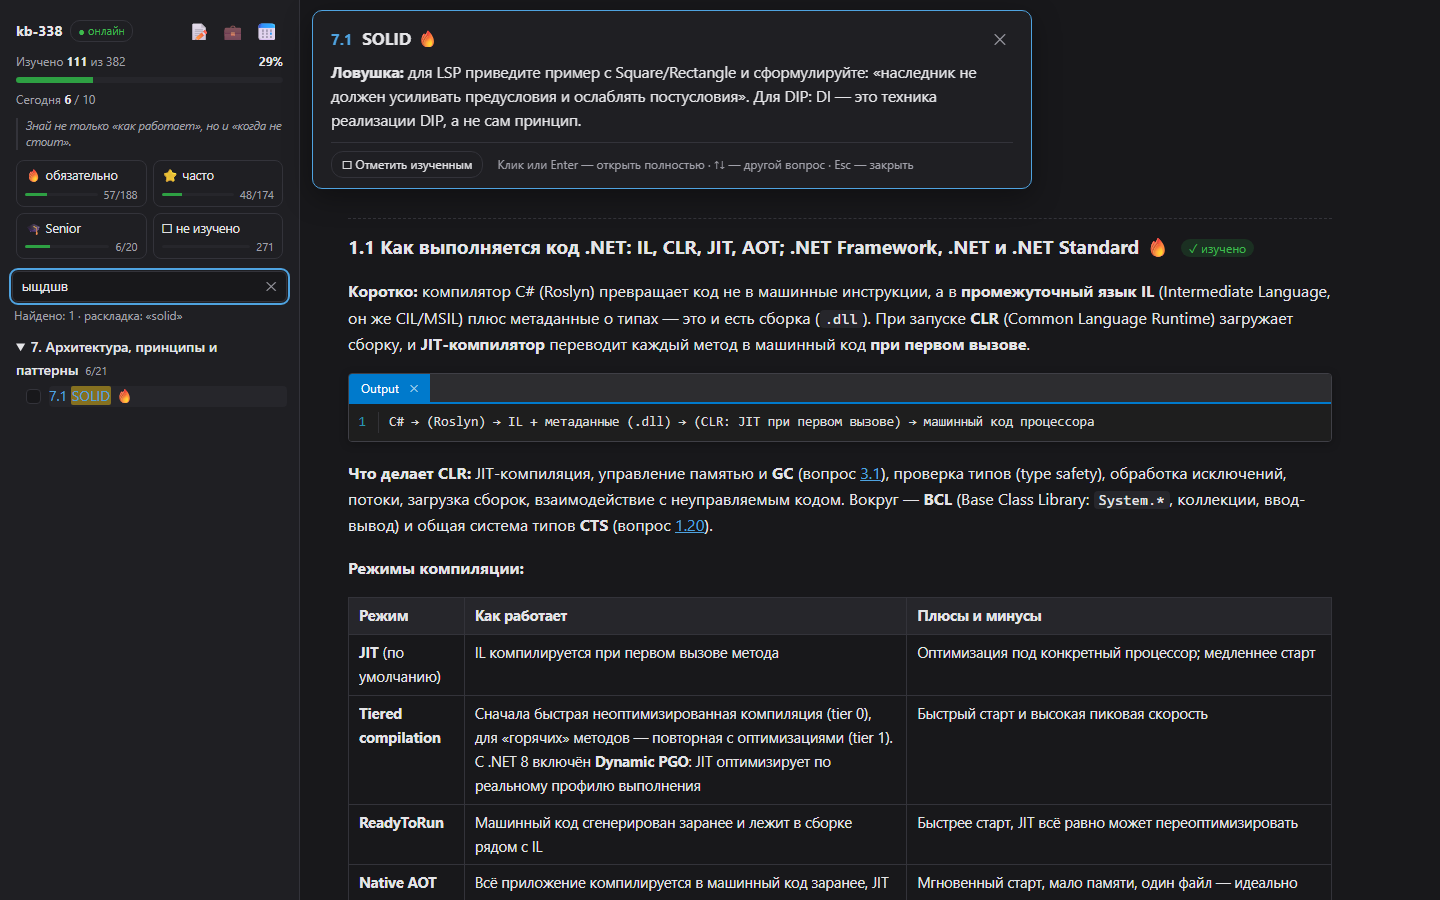
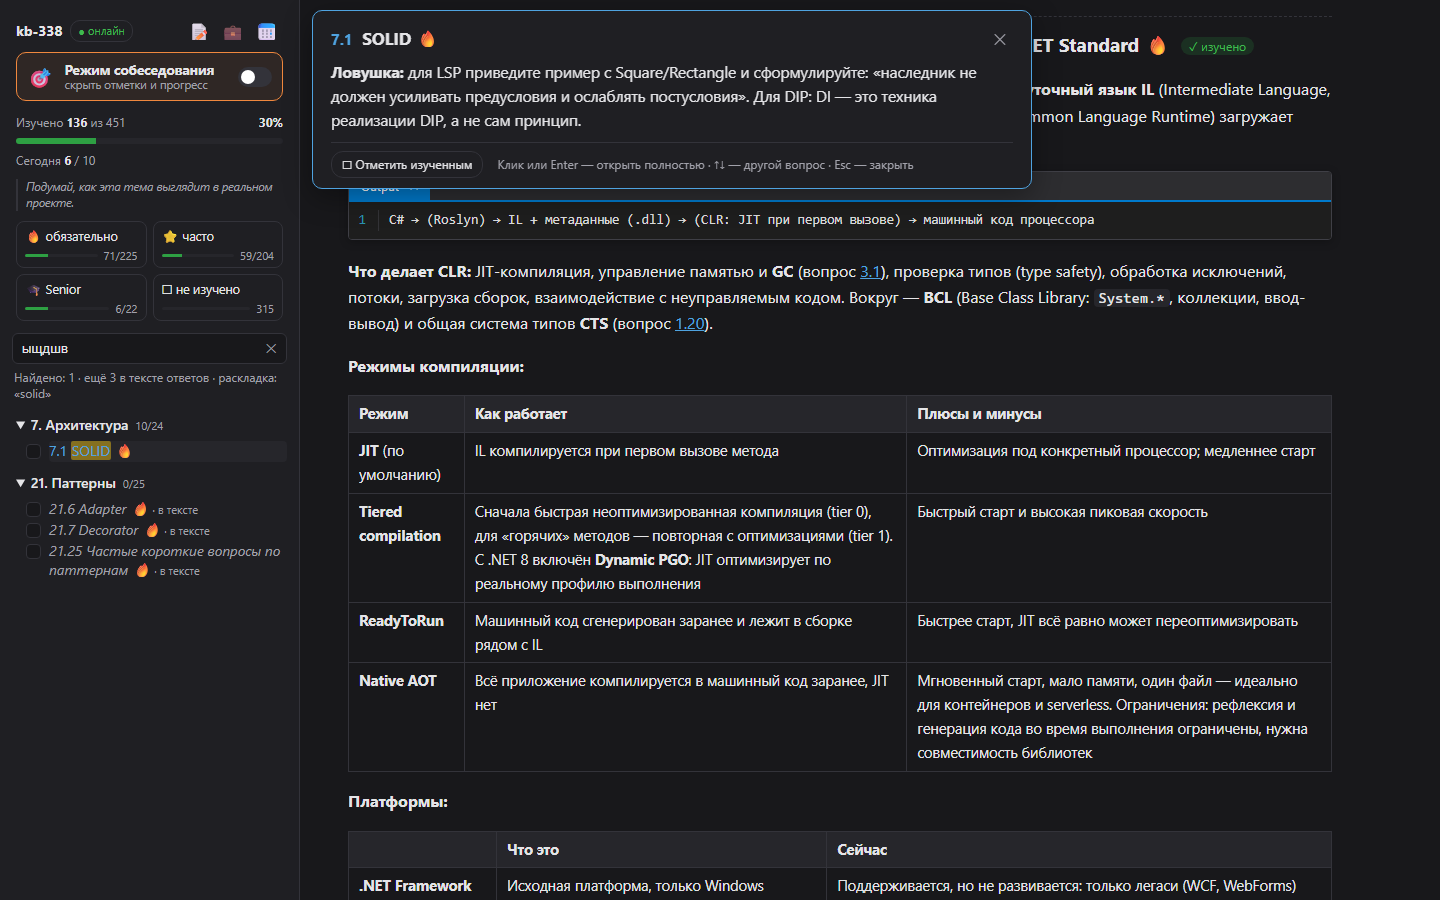
README: новые скриншоты на демо-данных (короткое оглавление, 451 вопрос) и снимок раздела компании с картой подготовки и панелью прохода

diff --git a/README.md b/README.md
@@ -18,6 +18,11 @@
 |---|---|---|
 | [![Поиск](docs/screenshots/search.png)](docs/screenshots/search.png) | [![Календарь](docs/screenshots/calendar.png)](docs/screenshots/calendar.png) | [![Отклики](docs/screenshots/tracker.png)](docs/screenshots/tracker.png) |
 
+Раздел под вакансию: вероятные вопросы, «Карта подготовки» со ссылками на темы базы и проход по ним по одной
+(панель внизу) — см. [`/interview-prep`](#interview-prep--подготовка-к-вакансии).
+
+![Раздел компании: карта подготовки и панель прохода по темам](docs/screenshots/company.png)
+
 <sub>На скриншотах — демо-данные: компании выдуманные.</sub>
 
 ## Запуск
